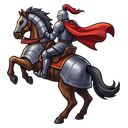
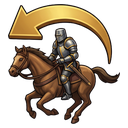
Framed map edge, scenario preview, clearer panels: past the map's edge a bronze frame with a gold line and a dark void (never bare background or stray tree shadows), a soft shadow inward along the edge, and the view may run further past it so the opening view is centred on the hero; winged one-hex f

diff --git a/tools/art/button_icons_paint.py b/tools/art/button_icons_paint.py
@@ -3,7 +3,7 @@ overview, hero, sleep, move, spellbook, next hero, end turn, system; 4x2) and th
 defend; the battle reuses the spellbook and the hourglass).
 python tools/art/button_icons_paint.py paint [adventure|battle]   ->  imagegen/batch20/out/<sheet>.png
 python tools/art/button_icons_paint.py ingest [adventure|battle]  ->  assets/ui/btn_<name>.png (128 px, transparent)
-(the "retreat" and "retreat2" sheets paint eight takes of the retreat icon; the best is kept as btn_retreat.png by hand)"""
+(the "retreat", "retreat2" and "retreat3" sheets paint eight takes of the retreat icon; the best is kept as btn_retreat.png by hand)"""
 import os, sys
 import numpy as np
 from PIL import Image
@@ -44,6 +44,14 @@ SHEETS = {"adventure": [
     (f"retreat2_{k}", "the head, neck and front legs of an armoured warhorse galloping away to the left, mane "
      "flying, a red and gold caparison, three golden motion streaks behind it, drawn large and bold, a compact square "
      "composition") for k in "efgh"
+], "retreat3": [  # (the rearing rider read as a charge: one fleeing, looking back, the dust of its flight behind it)
+    (f"retreat3_{k}", "a knight galloping away to the left on a frightened horse, the knight twisted round in the "
+     "saddle looking back over his shoulder, his shield slung on his back, a big cloud of dust kicked up behind the "
+     "horse, drawn large and bold so it fills the cell, a compact square composition") for k in "abcd"
+] + [
+    (f"retreat3_{k}", "a knight galloping away to the left on his horse, seen from the side, with a big bold golden "
+     "arrow curving back to the left over them, drawn large so it fills the cell, a compact square composition")
+    for k in "efgh"
 ]}
 PROMPT = ("This is a blank icon sheet for a fantasy strategy game's interface: a flat magenta (#FF00FF) background "
           "divided into a 4 x 2 grid of equal square cells (4 columns, 2 rows). Paint exactly one icon in the centre of "
